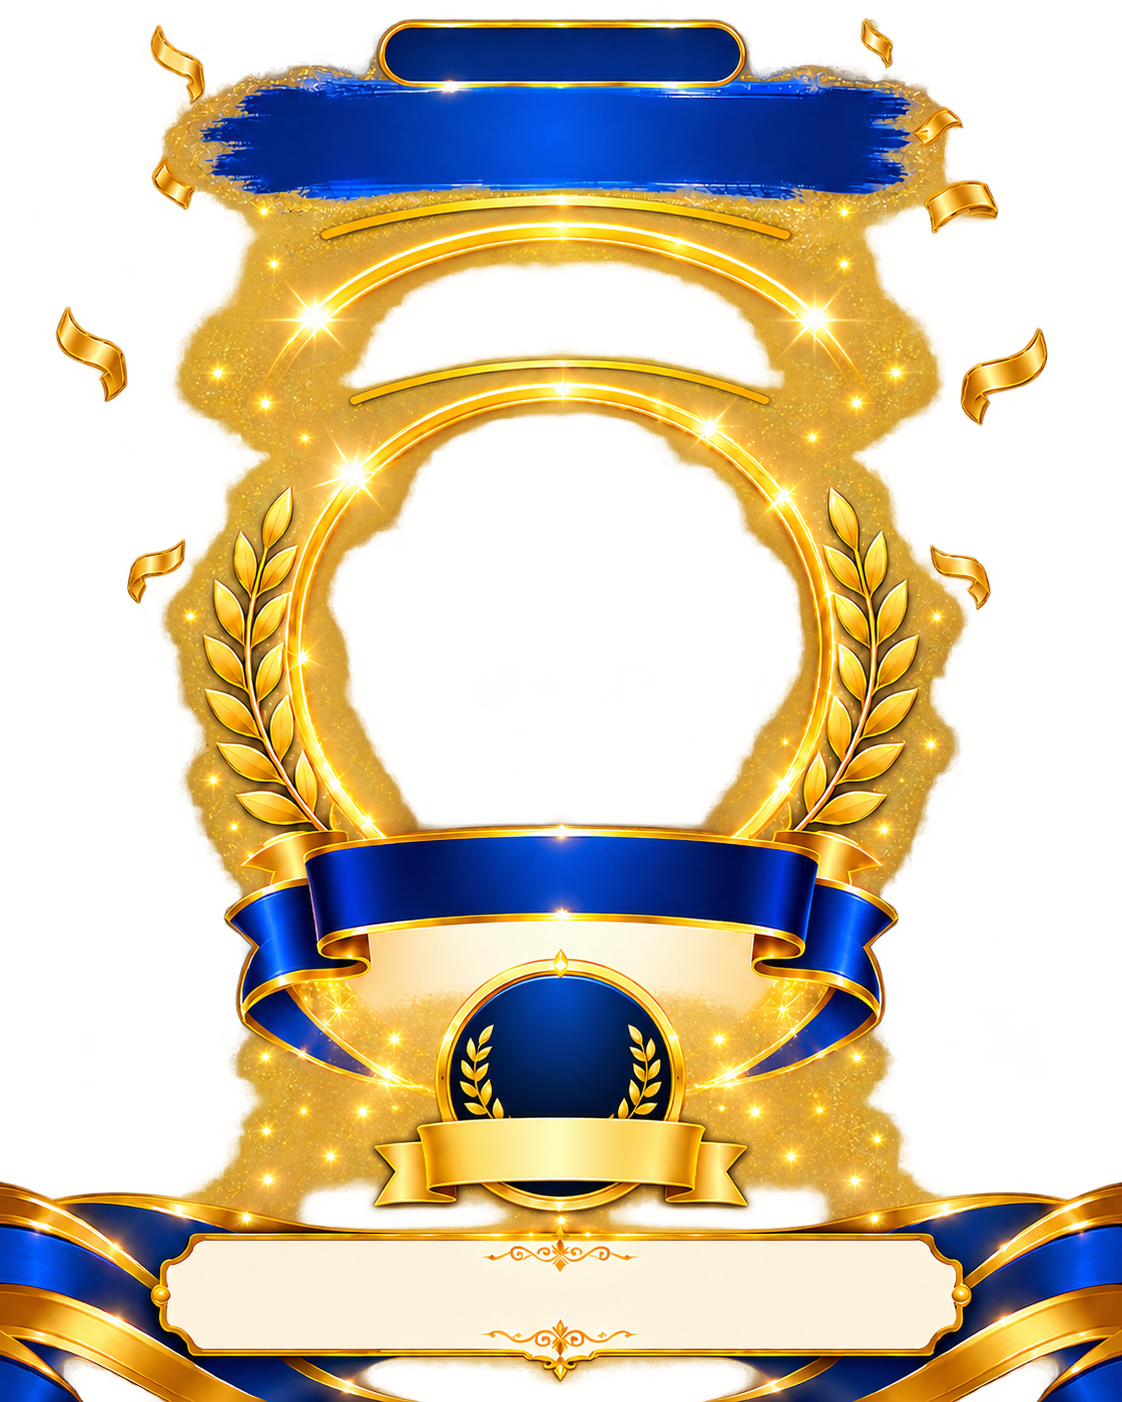
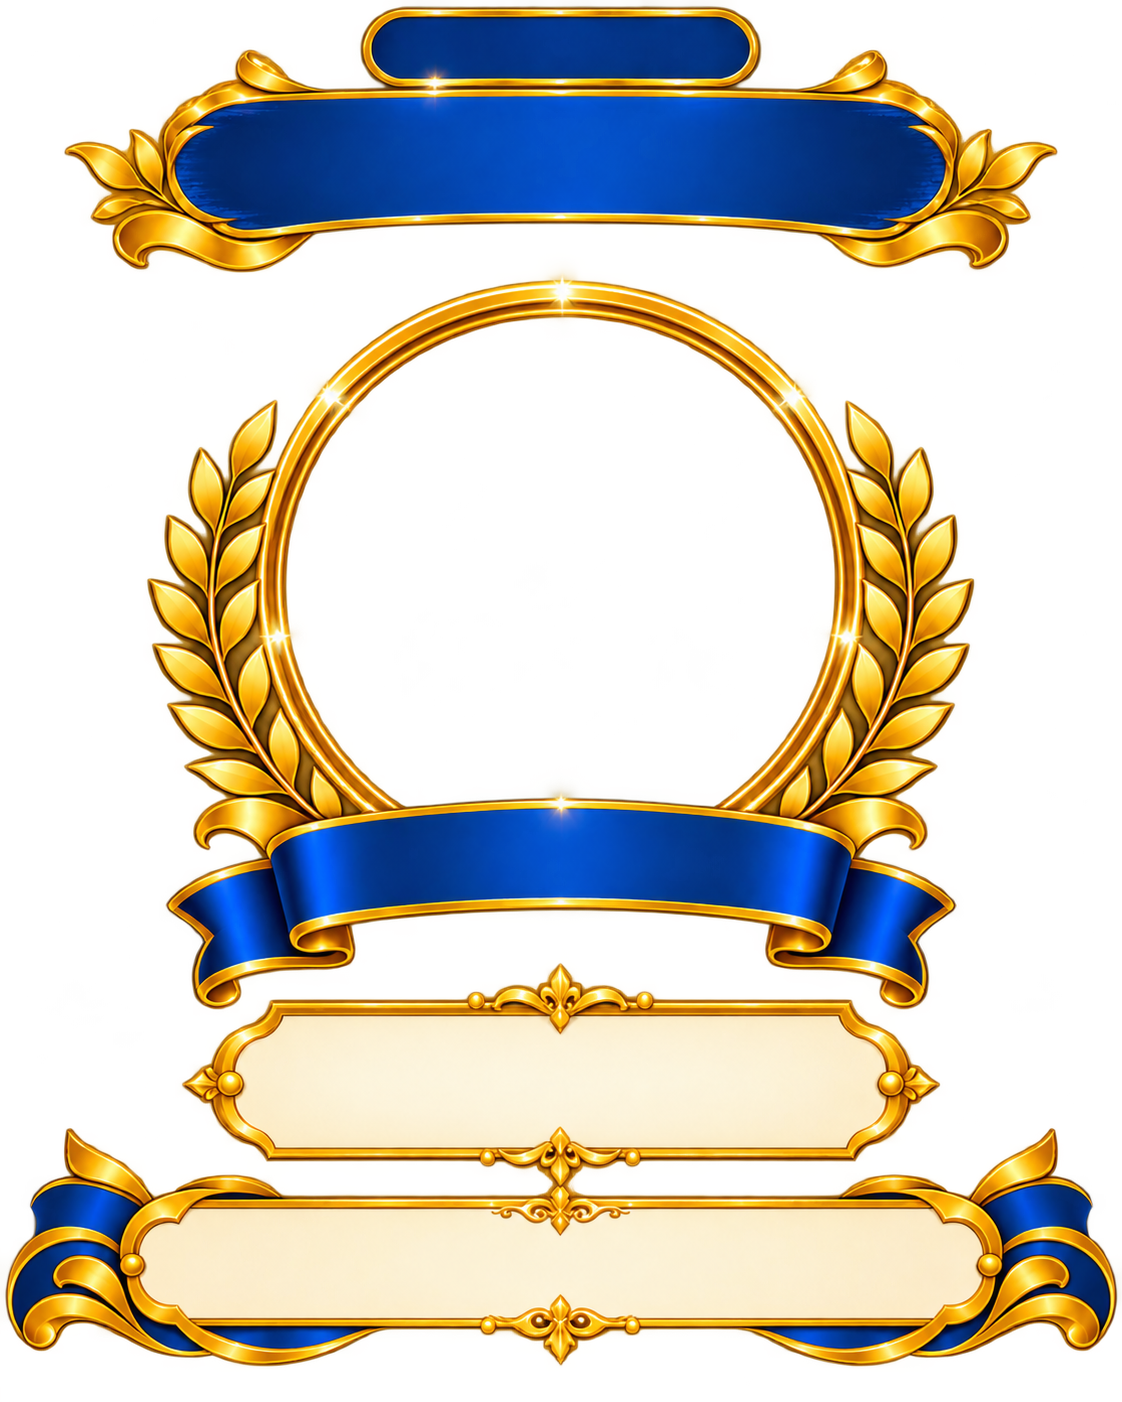
Integrate polished single poster frame

diff --git a/src/main.jsx b/src/main.jsx
@@ -95,7 +95,6 @@ const POSTER_WIDTH = 1122;
 const POSTER_HEIGHT = 1402;
 const POSTER_DEFAULT_BACKGROUND = '/poster/science-poster-background.png';
 const POSTER_OVERLAY = '/poster/school-award-overlay.png';
-const POSTER_GRADE_ONLY_OVERLAY = '/poster/school-award-overlay-grade-only.png';
 const posterImageCache = new Map();
 
 const demoPhoto = (name, bg, fg = '#ffffff') =>
@@ -3098,11 +3097,10 @@ async function renderStudentPoster(entry, settings) {
   }
   const hasPosition = Boolean(String(entry.result?.position || '').trim());
   const hasGrade = Boolean(String(entry.result?.grade || '').trim());
-  const useDoubleResult = hasPosition && hasGrade;
   const [baseImage, studentPhoto, overlay] = await Promise.all([
     loadPosterImage(settings.baseImage || POSTER_DEFAULT_BACKGROUND),
     loadPosterImage(entry.student.photo || blankPhoto),
-    loadPosterImage(useDoubleResult ? POSTER_OVERLAY : POSTER_GRADE_ONLY_OVERLAY)
+    loadPosterImage(POSTER_OVERLAY)
   ]);
   const canvas = document.createElement('canvas');
   canvas.width = POSTER_WIDTH;
@@ -3111,31 +3109,29 @@ async function renderStudentPoster(entry, settings) {
 
   drawImageCover(context, baseImage, 0, 0, POSTER_WIDTH, POSTER_HEIGHT);
 
-  drawImageCover(context, studentPhoto, 326, 385, 470, 462);
+  context.save();
+  context.beginPath();
+  context.arc(561, 557, 252, 0, Math.PI * 2);
+  context.clip();
+  drawImageCover(context, studentPhoto, 309, 305, 504, 504);
+  context.restore();
   context.drawImage(overlay, 0, 0, POSTER_WIDTH, POSTER_HEIGHT);
 
-  drawPosterText(context, settings.topLine1, { x: 561, y: 53, maxWidth: 335, fontSize: 37 });
-  drawPosterText(context, settings.topLine2, { x: 561, y: 139, maxWidth: 700, fontSize: 54 });
-  drawPosterText(context, settings.headline, { x: 561, y: 266, maxWidth: 830, fontSize: 88, fill: '#ffd447', stroke: '#7a3a00', strokeWidth: 7, shadowBlur: 8 });
-  drawPosterText(context, settings.subtitle, { x: 561, y: 351, maxWidth: 620, fontSize: 36, fill: '#ffffff', stroke: '#123b86', strokeWidth: 5 });
-  drawPosterText(context, String(entry.student.name || '').toUpperCase(), { x: 561, y: 889, maxWidth: 570, fontSize: 45, family: '"Poster Slab", Georgia, serif', fill: '#ffe7a0', stroke: '#5a3300', strokeWidth: 3 });
-  drawPosterText(context, classDivision(entry.student), { x: 561, y: 959, maxWidth: 470, fontSize: 35, family: '"Poster Slab", Georgia, serif', fill: '#102662', shadowColor: 'transparent', shadowBlur: 0, shadowOffsetY: 0 });
-  drawPosterText(context, entry.item?.name || '', { x: 561, y: 995, maxWidth: 500, fontSize: 29, weight: 700, family: '"Poster Slab", Georgia, serif', fill: '#102662', shadowColor: 'transparent', shadowBlur: 0, shadowOffsetY: 0 });
+  drawPosterText(context, settings.topLine1, { x: 561, y: 50, maxWidth: 335, fontSize: 34 });
+  drawPosterText(context, settings.topLine2, { x: 561, y: 116, maxWidth: 760, fontSize: 29 });
+  drawPosterText(context, settings.headline, { x: 561, y: 163, maxWidth: 810, fontSize: 42, fill: '#ffd86a', stroke: '#673600', strokeWidth: 4, shadowBlur: 5 });
+  drawPosterText(context, settings.subtitle, { x: 561, y: 207, maxWidth: 700, fontSize: 19, fill: '#ffffff', stroke: '#123b86', strokeWidth: 2 });
+  drawPosterText(context, String(entry.student.name || '').toUpperCase(), { x: 561, y: 893, maxWidth: 590, fontSize: 43, family: '"Poster Slab", Georgia, serif', fill: '#ffe7a0', stroke: '#5a3300', strokeWidth: 3 });
 
-  if (useDoubleResult) {
-    drawPosterText(context, formatOrdinal(entry.result.position), { x: 430, y: 1086, maxWidth: 150, fontSize: 58, family: '"Poster Slab", Georgia, serif', fill: '#ffe177', stroke: '#6d3900', strokeWidth: 3 });
-    drawPosterText(context, `${formatOrdinal(entry.result.position)} Prize`, { x: 430, y: 1160, maxWidth: 190, fontSize: 25, family: '"Poster Slab", Georgia, serif', fill: '#17204d', shadowColor: 'transparent', shadowBlur: 0, shadowOffsetY: 0 });
-    drawPosterText(context, String(entry.result.grade).toUpperCase(), { x: 692, y: 1081, maxWidth: 130, fontSize: 76, family: '"Poster Slab", Georgia, serif', fill: '#ffe177', stroke: '#6d3900', strokeWidth: 3 });
-    drawPosterText(context, formatGrade(entry.result.grade), { x: 692, y: 1160, maxWidth: 190, fontSize: 25, family: '"Poster Slab", Georgia, serif', fill: '#17204d', shadowColor: 'transparent', shadowBlur: 0, shadowOffsetY: 0 });
-  } else if (hasGrade) {
-    drawPosterText(context, String(entry.result.grade).toUpperCase(), { x: 561, y: 1078, maxWidth: 170, fontSize: 82, family: '"Poster Slab", Georgia, serif', fill: '#ffe177', stroke: '#6d3900', strokeWidth: 3 });
-    drawPosterText(context, formatGrade(entry.result.grade), { x: 561, y: 1161, maxWidth: 235, fontSize: 29, family: '"Poster Slab", Georgia, serif', fill: '#17204d', shadowColor: 'transparent', shadowBlur: 0, shadowOffsetY: 0 });
-  } else if (hasPosition) {
-    drawPosterText(context, formatOrdinal(entry.result.position), { x: 561, y: 1084, maxWidth: 190, fontSize: 65, family: '"Poster Slab", Georgia, serif', fill: '#ffe177', stroke: '#6d3900', strokeWidth: 3 });
-    drawPosterText(context, `${formatOrdinal(entry.result.position)} Prize`, { x: 561, y: 1161, maxWidth: 235, fontSize: 29, family: '"Poster Slab", Georgia, serif', fill: '#17204d', shadowColor: 'transparent', shadowBlur: 0, shadowOffsetY: 0 });
-  }
+  const resultLine = [
+    hasPosition ? `${formatOrdinal(entry.result.position)} Prize` : '',
+    hasGrade ? formatGrade(entry.result.grade) : ''
+  ].filter(Boolean).join('  •  ');
+  drawPosterText(context, classDivision(entry.student), { x: 561, y: 1038, maxWidth: 590, fontSize: 30, family: '"Poster Slab", Georgia, serif', fill: '#102662', shadowColor: 'transparent', shadowBlur: 0, shadowOffsetY: 0 });
+  drawPosterText(context, entry.item?.name || '', { x: 561, y: 1082, maxWidth: 620, fontSize: 28, weight: 700, family: '"Poster Slab", Georgia, serif', fill: '#102662', shadowColor: 'transparent', shadowBlur: 0, shadowOffsetY: 0 });
+  drawPosterText(context, resultLine, { x: 561, y: 1121, maxWidth: 620, fontSize: 32, minFontSize: 21, family: '"Poster Slab", Georgia, serif', fill: '#9a5900', stroke: '#fff3c2', strokeWidth: 1.5, shadowColor: 'transparent', shadowBlur: 0, shadowOffsetY: 0 });
 
-  drawPosterText(context, settings.schoolName, { x: 561, y: 1301, maxWidth: 730, fontSize: 37, minFontSize: 22, family: '"Poster Slab", Georgia, serif', fill: '#14265e', shadowColor: 'transparent', shadowBlur: 0, shadowOffsetY: 0 });
+  drawPosterText(context, settings.schoolName, { x: 561, y: 1296, maxWidth: 790, fontSize: 35, minFontSize: 21, family: '"Poster Slab", Georgia, serif', fill: '#14265e', shadowColor: 'transparent', shadowBlur: 0, shadowOffsetY: 0 });
   return canvas;
 }
 

diff --git a/public/sw.js b/public/sw.js
@@ -1,5 +1,5 @@
 const CACHE_PREFIX = 'ascension-manager-';
-const CACHE_NAME = `${CACHE_PREFIX}v1.3.0`;
+const CACHE_NAME = `${CACHE_PREFIX}v1.4.0`;
 const APP_SHELL = [
   '/',
   '/manifest.webmanifest',
